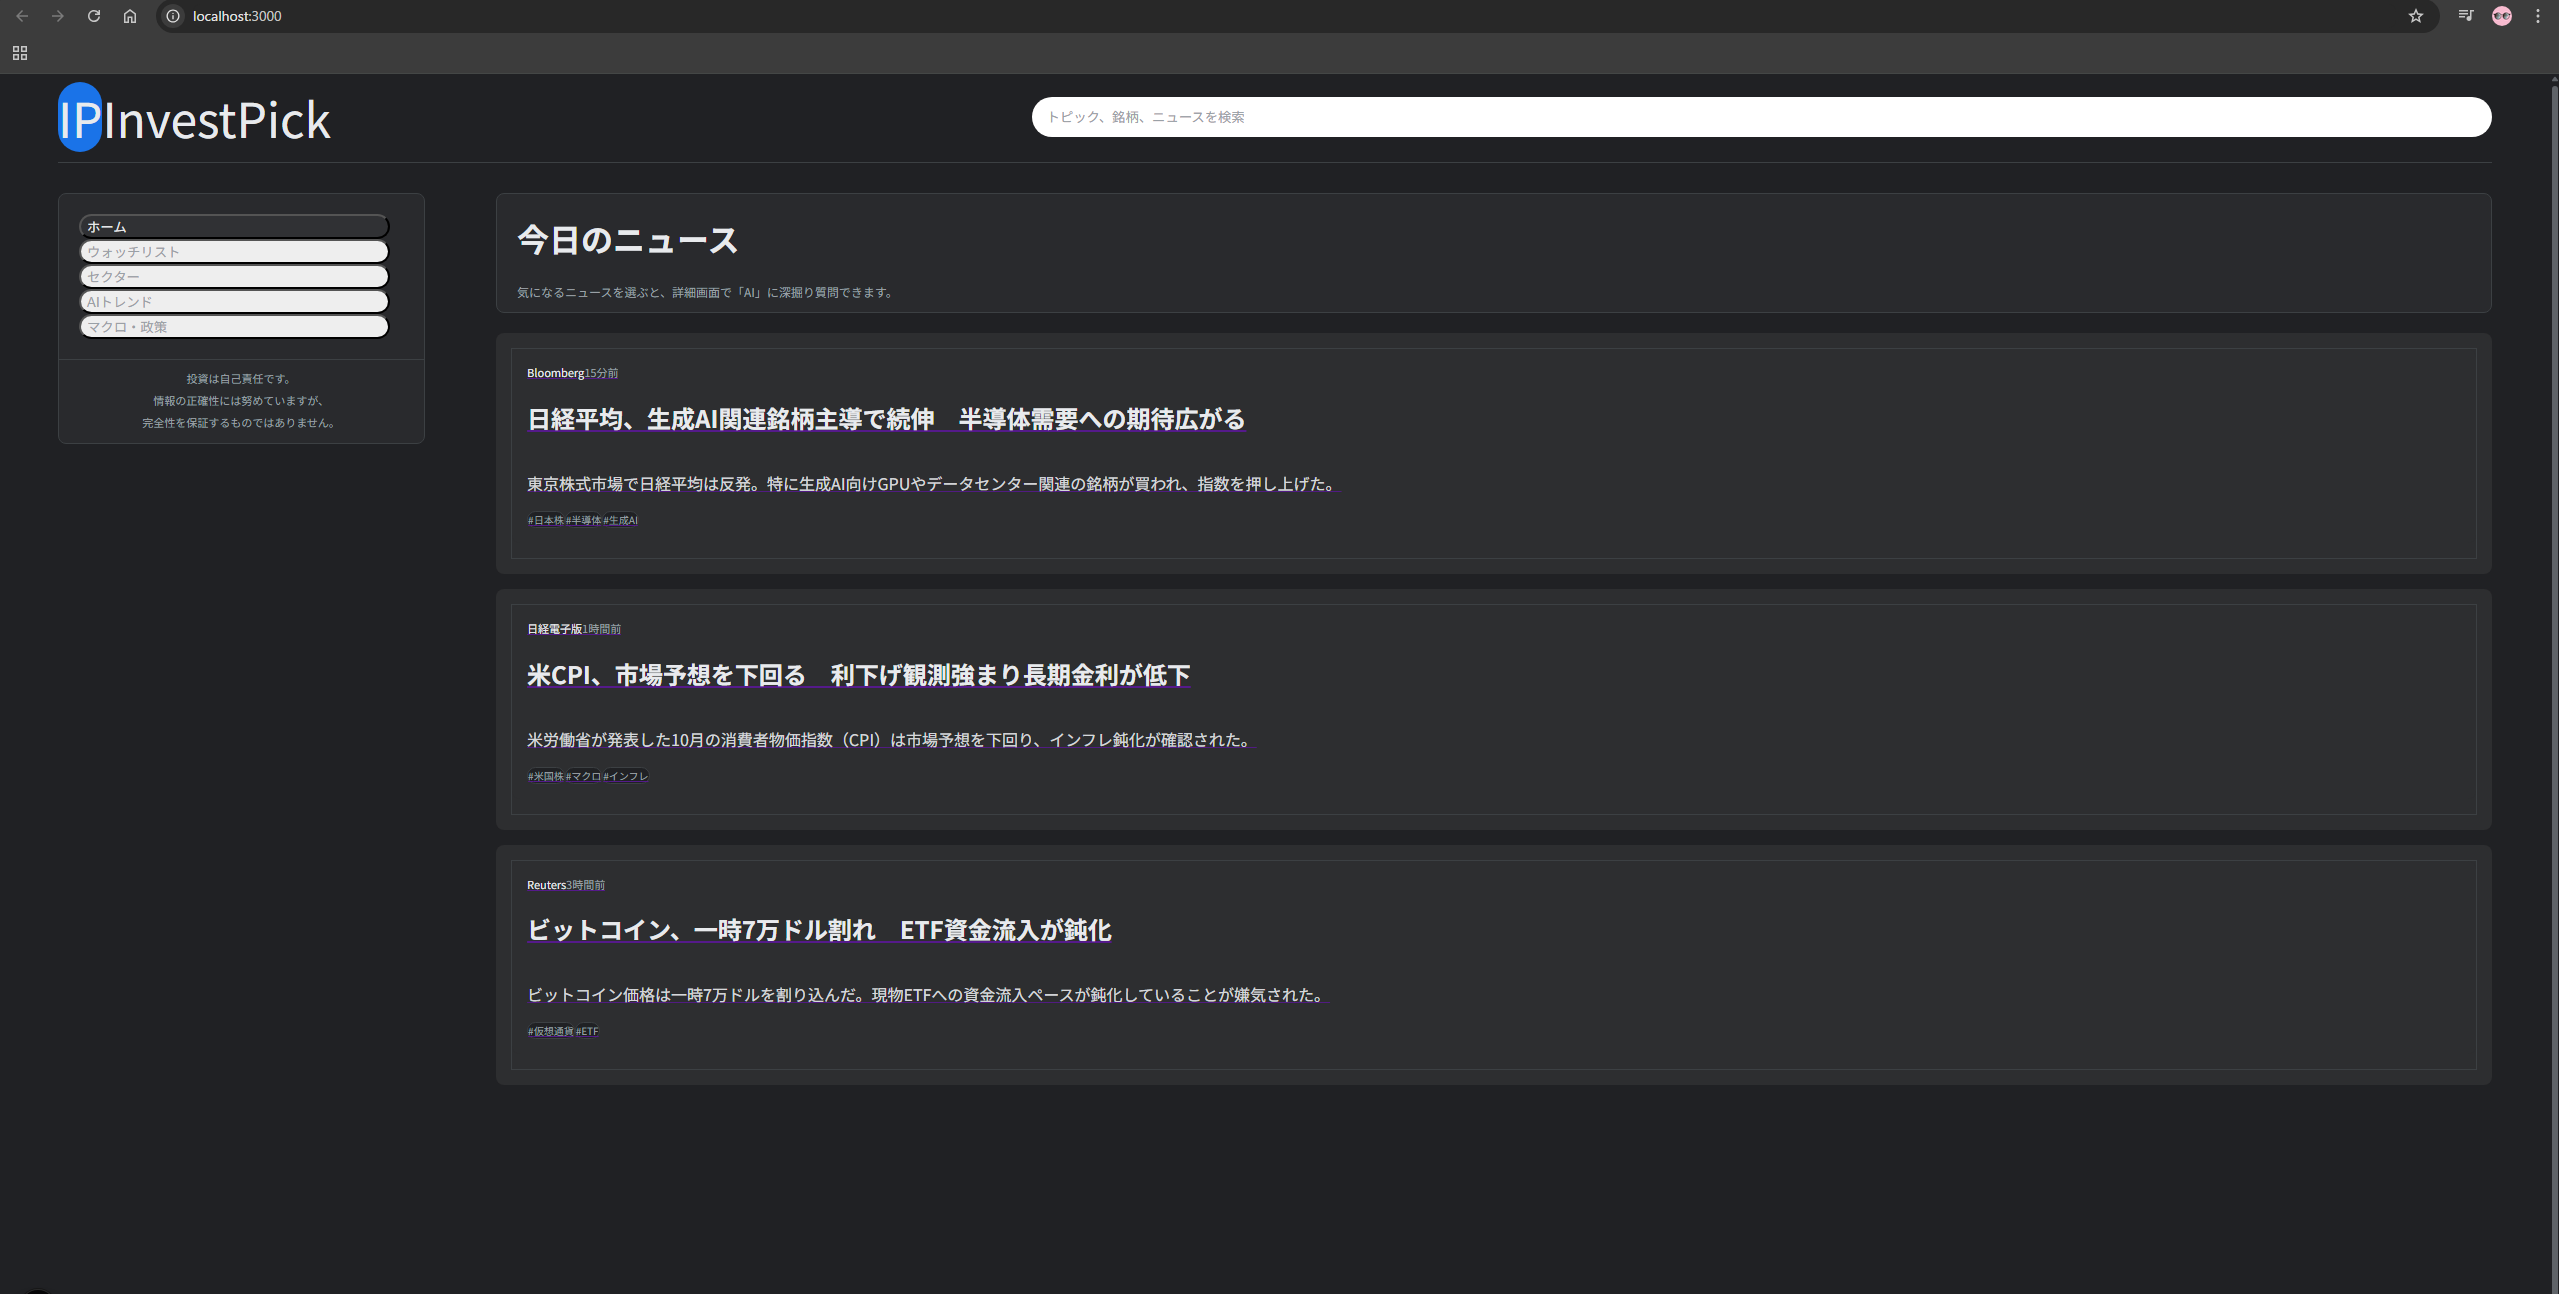
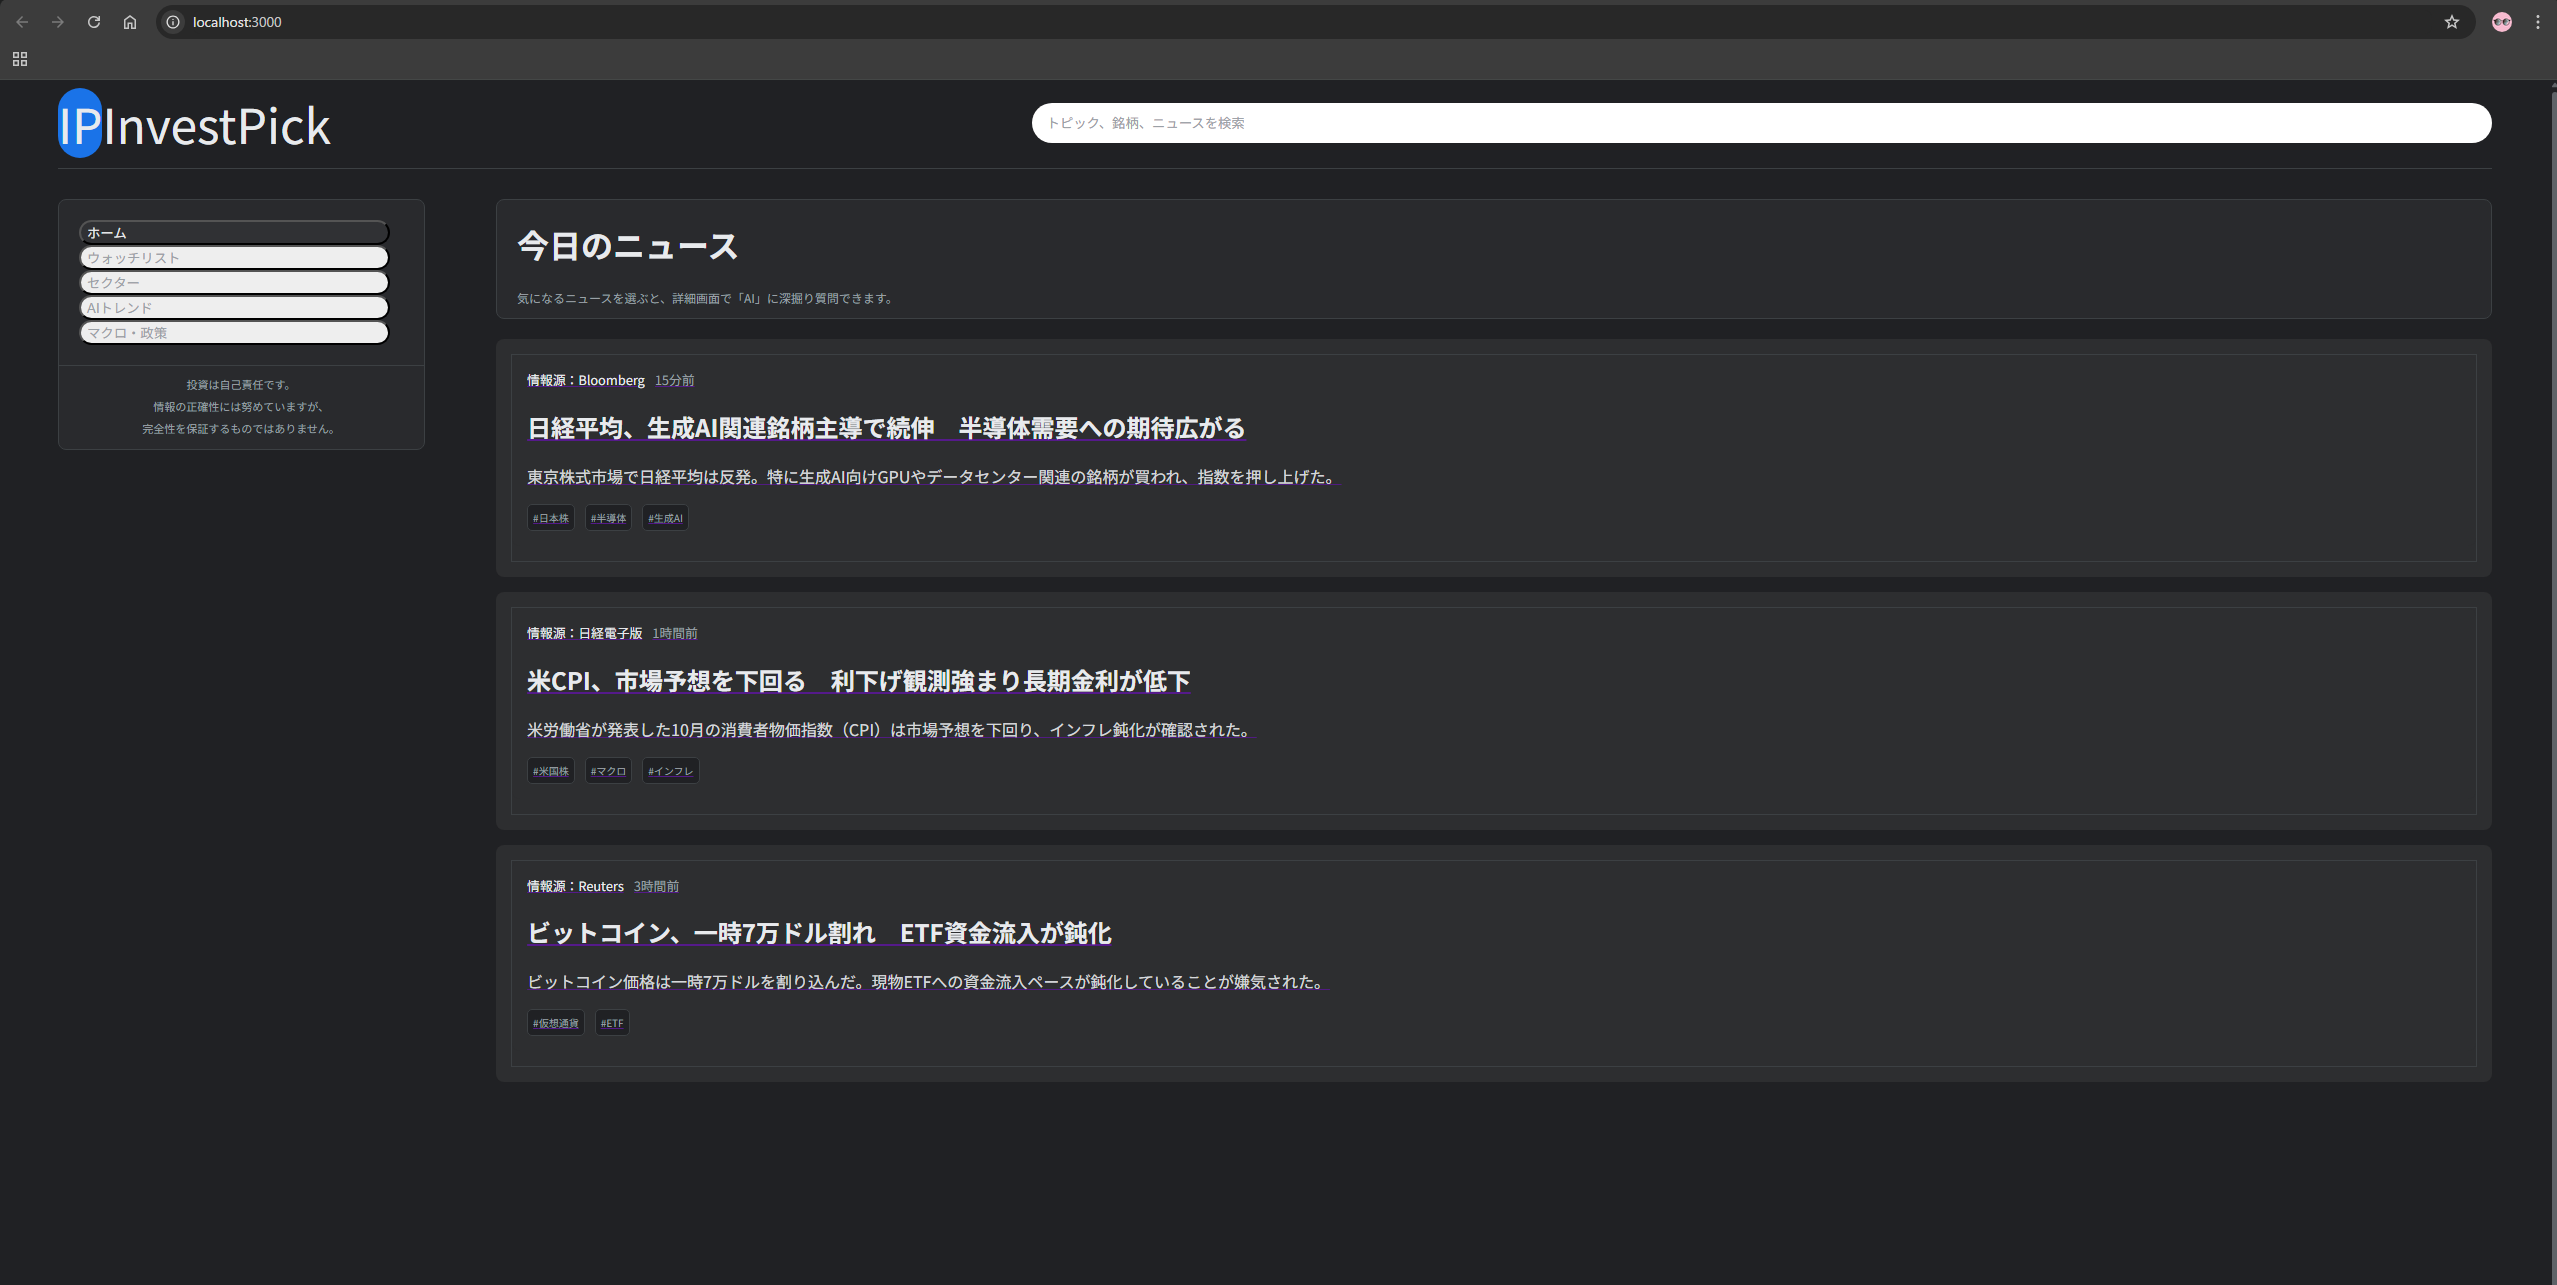
M0：UIの微調整をしました。

diff --git a/frontend/app/components/NewsCard.tsx b/frontend/app/components/NewsCard.tsx
@@ -19,11 +19,11 @@ export function NewsCard({ article }: { article: NewsArticle }) {
         <div className="custom-newscard flex min-w-0 flex-1 flex-col">
           <header className="flex items-center justify-between text-[11px] text-[#9aa0a6]">
             <div className="flex items-center gap-2 truncate">
-              <span className="font-medium text-[#e8eaed]">
-                {article.source}
+              <span className="custom-source font-medium text-[#e8eaed]">
+                情報源：{article.source}
               </span>
               <span className="h-1 w-1 rounded-full bg-[#5f6368]" />
-              <span className="truncate">{article.publishedAt}</span>
+              <span className="custom-publishedAt truncate">{article.publishedAt}</span>
             </div>
           </header>
 
@@ -31,15 +31,15 @@ export function NewsCard({ article }: { article: NewsArticle }) {
             {article.title}
           </h2>
 
-          <p className="mt-1 text-xs leading-relaxed text-[#e8eaed] opacity-90 line-clamp-2">
+          <p className="custom-summary mt-1 text-xs leading-relaxed text-[#e8eaed] opacity-90 line-clamp-2">
             {article.summary}
           </p>
 
-          <div className="mt-2 flex flex-wrap gap-1 text-[10px] text-[#9aa0a6]">
+          <div className="custom-tag mt-2 flex flex-wrap gap-1 text-[10px] text-[#9aa0a6]">
             {article.tags.map((tag) => (
               <span
                 key={tag}
-                className="rounded-full border border-[#3c4043] bg-[#202124] px-2 py-0.5"
+                className="custom-tagname border border-[#3c4043] bg-[#202124] px-2 py-0.5"
               >
                 #{tag}
               </span>

diff --git a/frontend/app/globals.css b/frontend/app/globals.css
@@ -77,6 +77,30 @@ body {
   text-align: center;
 }
 
+.custom-source {
+  font-size: 0.8rem;
+  margin-right: 5px;
+}
+
+.custom-publishedAt {
+  font-size: 0.8rem;
+  margin-left: 5px;
+}
+
+.custom-summary {
+  margin-top: 0;
+}
+
+.custom-tag {
+  gap: 10px;
+}
+
+.custom-tagname {
+  width: auto;
+  padding: 5px;
+  border-radius: 5px;
+}
+
 .custom-news {
   margin-bottom: 20px;
   padding-left: 20px;
